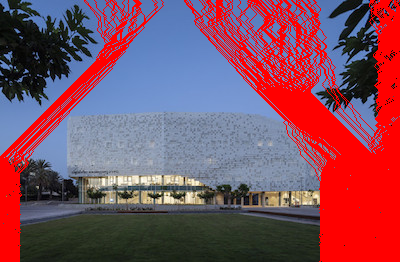
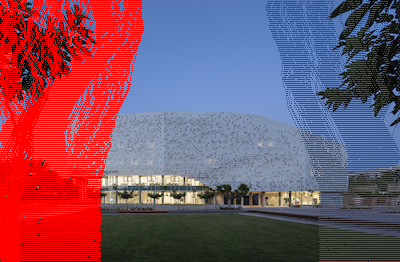
changes

Changed region(s): [[0.45, 0.0, 1.0, 1.0], [0.0, 0.0, 0.39, 1.0], [0.39, 0.0, 0.42, 0.0305]]

diff --git a/SeamCarving/SeamCarving/seam_carving.py b/SeamCarving/SeamCarving/seam_carving.py
@@ -103,9 +103,9 @@ def calculate_seams(grayscale_image: NDArray, gradients: NDArray, dim_diff: int,
     seams_matrix = np.zeros((dim_diff, grayscale_image.shape[0]), dtype=int)
 
     for seam_number in range(dim_diff):
-        left_cost, vertical_cost, right_cost = compute_forward_costs(grayscale_image, is_forward)
-        cost_matrix = calculate_cost_matrix(grayscale_image, gradients, left_cost, vertical_cost, right_cost)
-        best_gray_seam, best_orig_seam = find_best_seam(cost_matrix, indices_matrix)
+        Cl, Cv, Cr = compute_forward_costs(grayscale_image, is_forward)
+        cost_matrix = calculate_cost_matrix(grayscale_image, gradients, Cl, Cv, Cr)
+        best_gray_seam, best_orig_seam = find_best_seam(cost_matrix, gradients, indices_matrix, Cl, Cv)
 
         seams_matrix[seam_number, :] = best_orig_seam
         grayscale_image, indices_matrix, gradients = remove_seam(grayscale_image,
@@ -115,7 +115,11 @@ def calculate_seams(grayscale_image: NDArray, gradients: NDArray, dim_diff: int,
     return indices_matrix, seams_matrix
 
 
-def calculate_cost_matrix(grayscale_image: NDArray, E: NDArray, left_cost: NDArray, vertical_cost: NDArray, right_cost: NDArray):
+def calculate_cost_matrix(grayscale_image: NDArray,
+                          E: NDArray,
+                          left_cost: NDArray,
+                          vertical_cost: NDArray,
+                          right_cost: NDArray):
     M = np.zeros_like(grayscale_image)
     M[0, :] = E[0, :]
     for row_index in range(1, M.shape[0]):
@@ -126,35 +130,39 @@ def calculate_cost_matrix(grayscale_image: NDArray, E: NDArray, left_cost: NDArr
     return M
 
 
-def find_best_seam(cost_matrix: NDArray, indices_matrix: NDArray):
-    best_gray_seam = np.zeros((cost_matrix.shape[0],), dtype=int)
-    best_gray_seam[-1] = np.argmin(cost_matrix[-1, :])
-    best_orig_seam = np.zeros((cost_matrix.shape[0],), dtype=int)
+def find_best_seam(M: NDArray, E: NDArray, indices_matrix: NDArray, Cl: NDArray, Cv: NDArray):
+    best_gray_seam = np.zeros((M.shape[0],), dtype=int)
+    best_gray_seam[-1] = np.argmin(M[-1, :])
+    best_orig_seam = np.zeros((M.shape[0],), dtype=int)
 
-    for i in range(2, cost_matrix.shape[0] + 1):
-        row_index = -i
-        best_prev_index = best_gray_seam[row_index + 1]
-        is_right_edge = best_prev_index == cost_matrix.shape[1] - 1
+    for k in range(1, M.shape[0]):
+        i = -k
+        best_prev_index = best_gray_seam[i + 1]
+        j = best_prev_index
+        is_right_edge = best_prev_index == M.shape[1] - 1
         is_left_edge = best_prev_index == 0
-
         if is_left_edge and is_right_edge:
-            min_column_index = cost_matrix[row_index, best_prev_index]
+            min_column_index = j
         elif is_left_edge:
-            candidates = [cost_matrix[row_index, best_prev_index],
-                          cost_matrix[row_index, best_prev_index + 1]]
-            min_column_index = best_prev_index + candidates.index(min(candidates))
+            if M[i, j] == E[i, j] + M[i-1, j] + Cv[i, j]:
+                min_column_index = j
+            else:
+                min_column_index = j+1
         elif is_right_edge:
-            candidates = [cost_matrix[row_index, best_prev_index - 1],
-                          cost_matrix[row_index, best_prev_index]]
-            min_column_index = best_prev_index - 1 + candidates.index(min(candidates))
+            if M[i, j] == E[i, j] + M[i-1, j] + Cv[i, j]:
+                min_column_index = j
+            else:
+                min_column_index = j-1
         else:
-            candidates = [cost_matrix[row_index, best_prev_index - 1],
-                          cost_matrix[row_index, best_prev_index],
-                          cost_matrix[row_index, best_prev_index + 1]]
-            min_column_index = best_prev_index - 1 + candidates.index(min(candidates))
+            if M[i, j] == E[i, j] + M[i-1, j] + Cv[i, j]:
+                min_column_index = j
+            elif M[i, j] == E[i, j] + M[i-1, j-1] + Cl[i, j]:
+                min_column_index = j-1
+            else:
+                min_column_index = j+1
 
-        best_gray_seam[row_index] = min_column_index
-    for row_index in range(cost_matrix.shape[0]):
+        best_gray_seam[i-1] = min_column_index
+    for row_index in range(M.shape[0]):
         best_orig_seam[row_index] = indices_matrix[row_index, best_gray_seam[row_index]]
     return best_gray_seam, best_orig_seam
 
